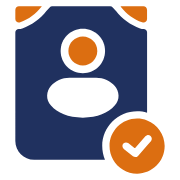
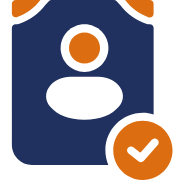
ui: Clarify sample profiles and refresh the brand mark

diff --git a/example/lib/main.dart b/example/lib/main.dart
@@ -26,14 +26,17 @@ class _ExampleState extends State<Example> {
   static const modes = {
     'either': [
       'Photos or files',
-      'Choose either method for each requested side.',
+      'Profile allows a photo or a saved file for each side.',
     ],
     'snapshot_and_upload': [
       'Photos and files',
-      'Take each side with the camera, then upload each saved side.',
+      'Profile requires a photo and a saved file of each side.',
     ],
-    'snapshot': ['Camera photos', 'Take each requested side with the camera.'],
-    'upload': ['File uploads', 'Choose saved document images or PDFs.'],
+    'snapshot': [
+      'Camera photos',
+      'Profile requires a camera photo of each side.',
+    ],
+    'upload': ['File uploads', 'Profile requires saved images or PDFs.'],
   };
   Future<SessionDescriptor> _session() async {
     final url = Uri.parse('http://localhost:3107/session');
@@ -84,7 +87,7 @@ class _ExampleState extends State<Example> {
               ),
               const SizedBox(height: 16),
               Text(
-                'Choose a sample flow. A fresh sandbox session is created when you start.',
+                'Choose a sample profile. Each profile sets its own capture method, and the SDK follows whatever the case asks for. A fresh sandbox case is created when you start.',
                 style: theme.textTheme.bodyLarge?.copyWith(
                   color: theme.colorScheme.onSurfaceVariant,
                 ),
